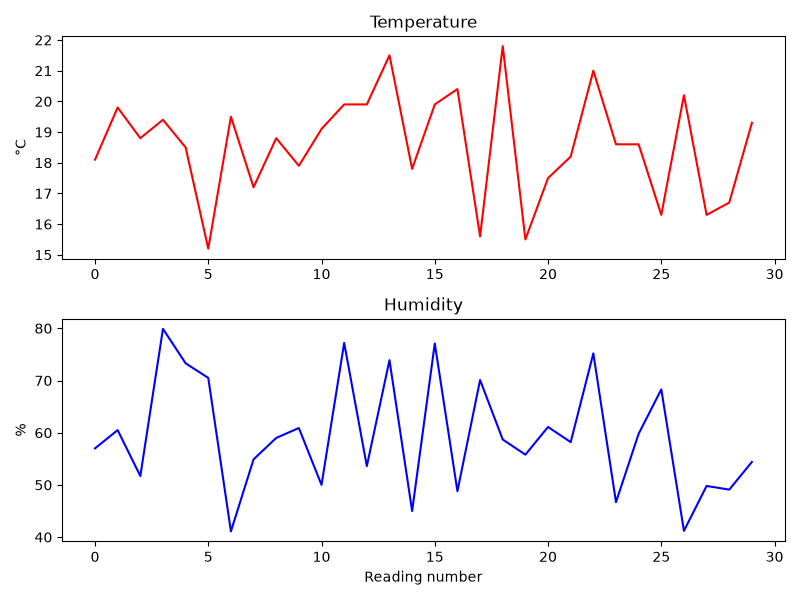
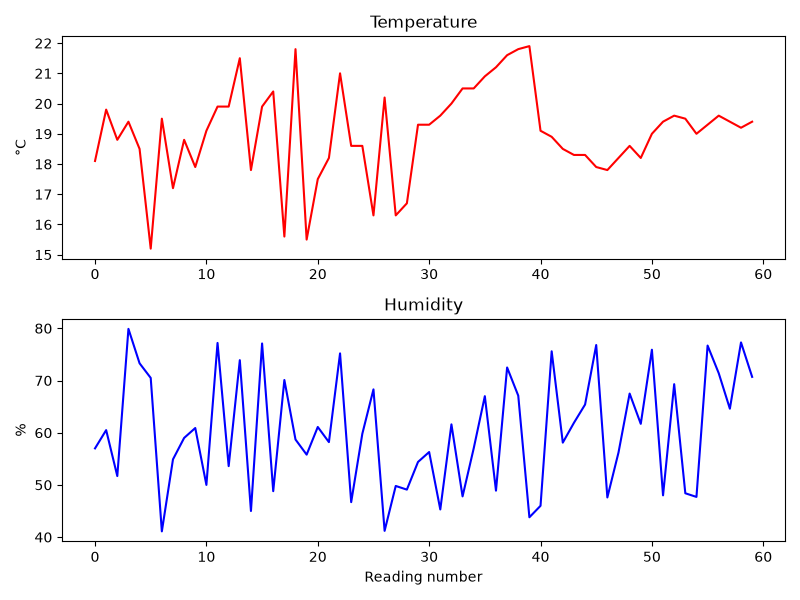
Move load_column into shared helpers module

diff --git a/plot.py b/plot.py
@@ -1,13 +1,5 @@
-import csv
 import matplotlib.pyplot as plt
-
-def load_column(filename, column):
-    values = []
-    with open(filename, "r") as file:
-        reader = csv.DictReader(file)
-        for row in reader:
-            values.append(float(row[column]))
-    return values
+from helpers import load_column
 
 temperatures = load_column("readings.csv", "temperature")
 humidity = load_column("readings.csv", "humidity")

diff --git a/analyse.py b/analyse.py
@@ -1,12 +1,4 @@
-import csv
-
-def load_column(filename, column):
-    values = []
-    with open(filename, "r") as file:
-        reader = csv.DictReader(file)
-        for row in reader:
-            values.append(float(row[column]))
-    return values
+from helpers import load_column
 
 def print_summary(name, values):
     print(f"--- {name} ---")

diff --git a/helpers.py b/helpers.py
@@ -1,0 +1,9 @@
+import csv
+
+def load_column(filename, column):
+    values = []
+    with open(filename, "r") as file:
+        reader = csv.DictReader(file)
+        for row in reader:
+            values.append(float(row[column]))
+    return values
